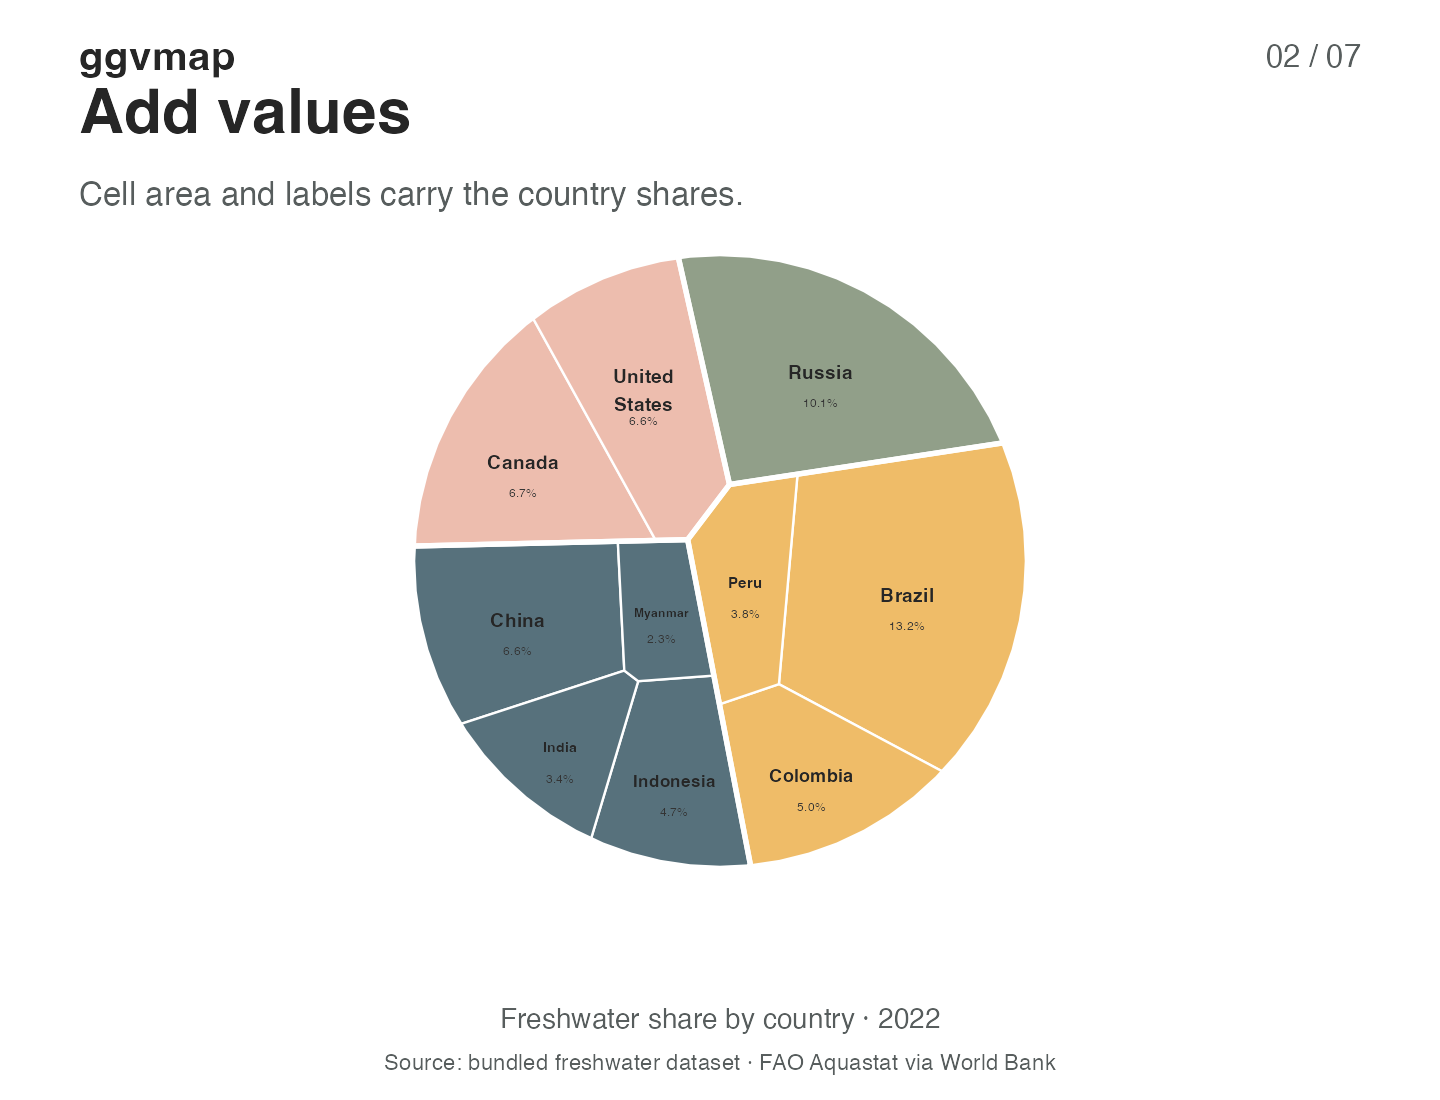
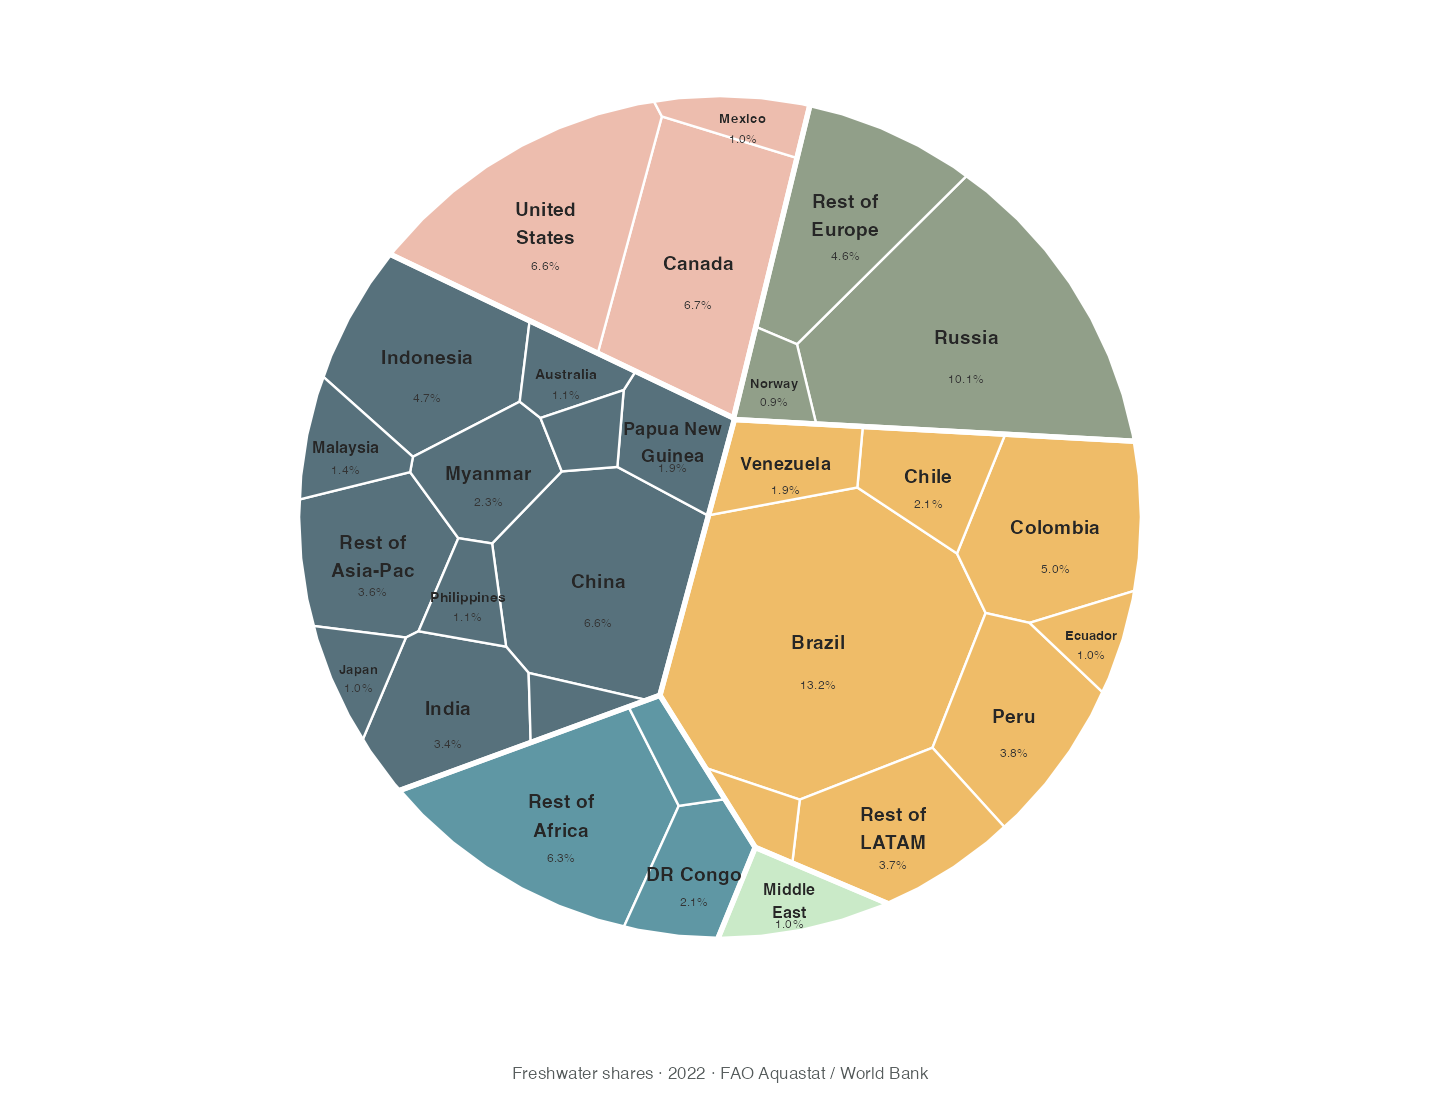
Use full country dataset in clean promo

diff --git a/examples/linkedin/README.md b/examples/linkedin/README.md
@@ -2,8 +2,9 @@
 
 - `ggvmap-options.gif`: looping 77-second tutorial, 1440 x 1680 pixels.
 - `ggvmap-promo.gif`: clean 19-second country-and-city promo, with no code panels.
-- `ggvmap-country-promo.gif`: country-first 42-second promo showing all options,
-  with a flag on Brazil only.
+- `ggvmap-country-promo.gif`: country-first 42-second promo showing all 30
+  country and regional categories, with a flag on Brazil only. Percentages appear
+  in a separate frame so the map can also be read without them.
 - `ggvmap-options.mp4`: the same silent tutorial as an H.264 video.
 - `cover.png`: still image of the arc-ring example.
 - `promo-cover.png`: still image for the clean country promo.
